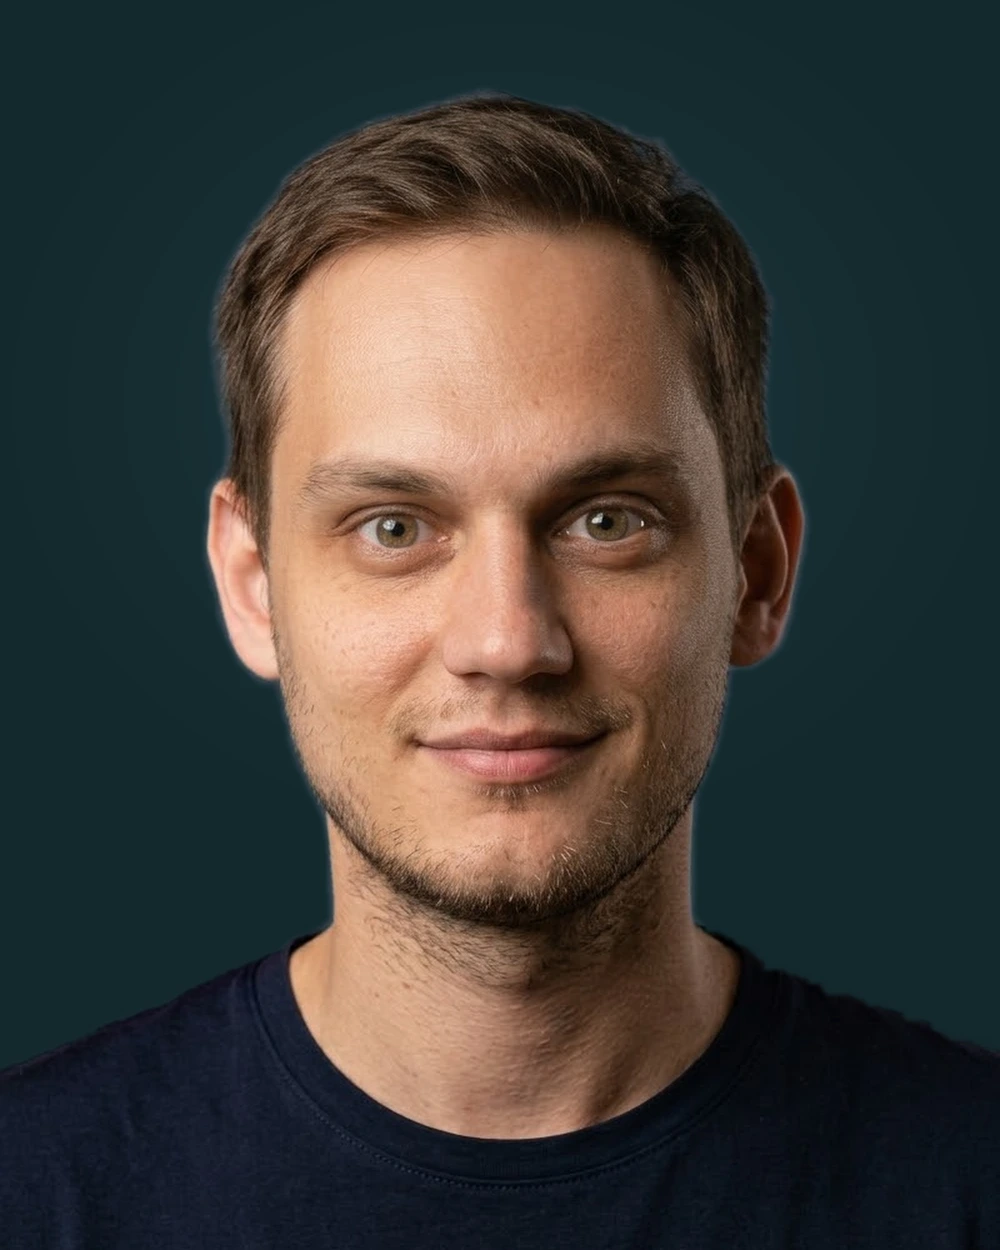
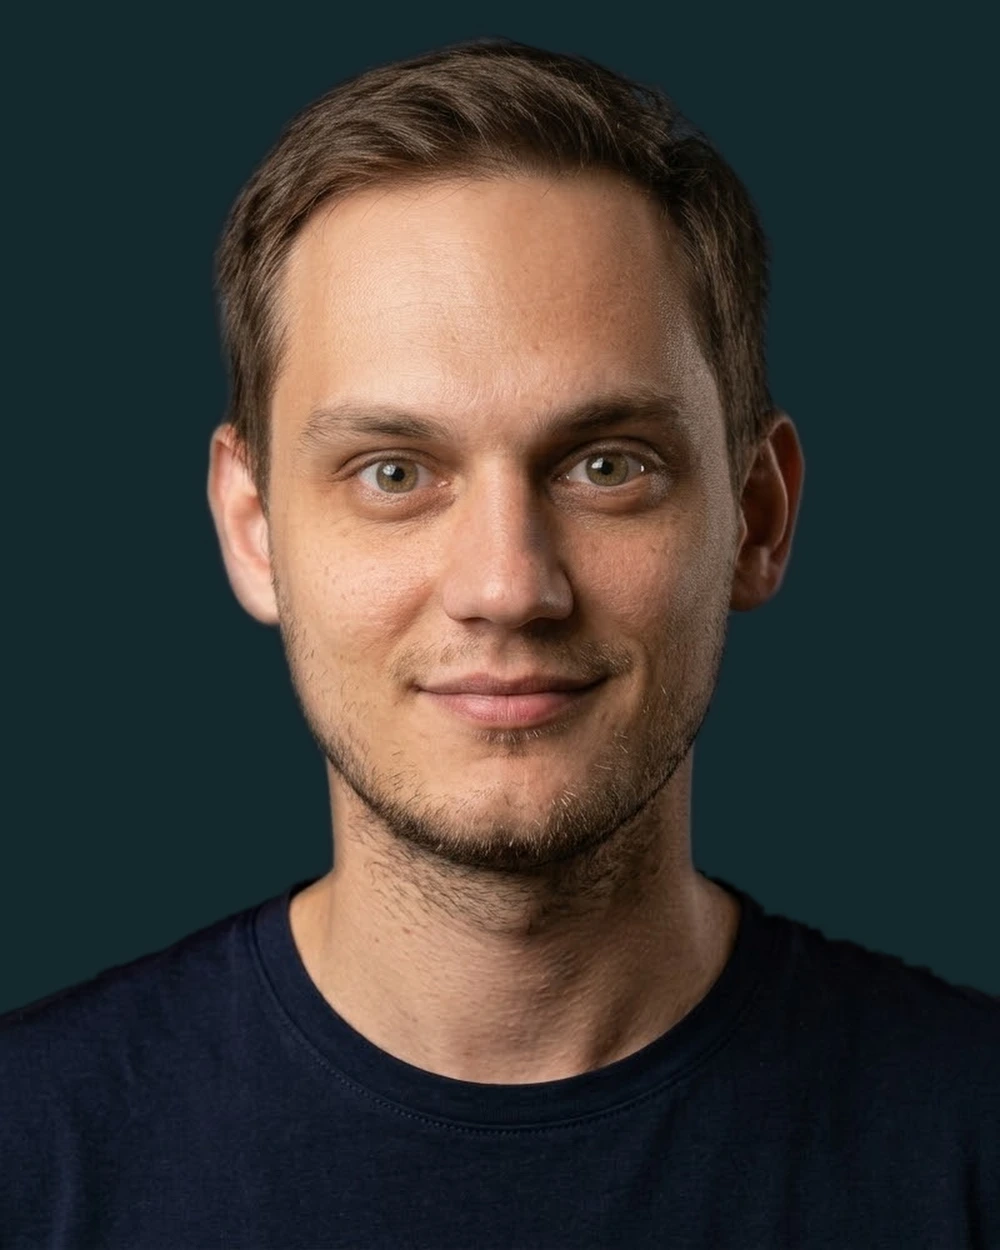
Add dark header segment, fix sticky positioning, swap hero photo
- Replace public/hero-45.webp with new portrait (same 1000x1250 crop)
- Header.tsx: dark segment (background: T.home.color.dark) on the
  right, width = --portrait's formula + container padExtra (matches
  Hero.tsx's tablet/desktop cap values), positioned absolute against
  the sticky header so its right edge tracks .portrait's right edge
  at every width (verified pixel-perfect at 768/900/1280/1440, not
  just the two cap points). Locale switch + WhatsApp link move into
  it, recolored to the textOnDark*/accentHoverDark tokens already
  used elsewhere on dark blocks. Logo and nav-links stay on the light
  background. Segment only exists >=768; header is unchanged below
  that. nav-links hidden 768-1279 (not enough room next to the
  segment for three items at a legible size, worst for RU labels;
  reappears at 1280+ where there's ~600px to spare) — decided with
  the user after measuring actual text widths.
- app/globals.css: root cause of the sticky bug was overflow-x:hidden
  on <body> (not just <html>) forcing overflow-y:auto there too,
  which makes body its own scroll container; position:sticky then
  computes its range against body instead of the viewport, and since
  body has no independent scroll range the header just scrolled away.
  Fix: overflow-x:hidden stays only on <html>, which already governs
  the viewport scrollbox on its own. Verified no horizontal scroll
  regression on /, /hms, /ecommerce, /cv, /lab/background.
[…]

Changed region(s): [[0.0, 0.0312, 1.0, 0.936]]

diff --git a/src/components/home/Header.tsx b/src/components/home/Header.tsx
@@ -20,6 +20,18 @@ interface HeaderProps {
   navLinks: [NavLink, NavLink, NavLink];
 }
 
+// Dark segment's width = the .portrait column's width (--portrait, see
+// homeGridVarsCSS in src/theme/homeContainer.ts) plus the container's own
+// right padding (padExtra) — same tablet/desktop cap values Hero.tsx reads
+// from T.home.container, so the segment's right edge tracks .portrait's
+// right edge (both anchored to the true viewport edge via the matching
+// "+ pad0" term below) without duplicating the --portrait formula itself.
+const { tablet, desktop } = T.home.container;
+const portraitWidthTablet = Math.round(tablet.cap * 0.3);
+const portraitWidthDesktop = Math.round(desktop.cap * 0.3);
+const segmentWidthTablet = portraitWidthTablet + tablet.padExtra;
+const segmentWidthDesktop = portraitWidthDesktop + desktop.padExtra;
+
 export const Header = ({ lang, brand, waLink, whatsappLabel, navLinks }: HeaderProps) => {
   const pathname = usePathname();
   const router = useRouter();
@@ -46,6 +58,23 @@ export const Header = ({ lang, brand, waLink, whatsappLabel, navLinks }: HeaderP
           background: ${T.home.color.bgLight};
           border-bottom: 1px solid ${T.home.color.ruleLight};
           font-family: ${T.home.font.sans};
+        }
+
+        /* Reserve room for the dark segment so logo/nav-links stop where it
+           begins instead of running underneath it. Same width formula as
+           .dark-segment below — deliberately duplicated (not read off a
+           shared var) since Header and Hero are DOM siblings and Hero's
+           --portrait custom property isn't in scope here. */
+        @media (min-width: 768px) {
+          .home-header {
+            padding-right: calc(max(0px, (100vw - ${tablet.cap}px) / 2) + ${segmentWidthTablet}px);
+          }
+        }
+
+        @media (min-width: 1280px) {
+          .home-header {
+            padding-right: calc(max(0px, (100vw - ${desktop.cap}px) / 2) + ${segmentWidthDesktop}px);
+          }
         }
 
         .logo-block {
@@ -99,6 +128,11 @@ export const Header = ({ lang, brand, waLink, whatsappLabel, navLinks }: HeaderP
           }
         }
 
+        /* Hidden 768–1279: the dark segment's width there (--portrait +
+           tablet padExtra) doesn't leave enough room next to the logo for
+           three nav items at a legible size, especially the longer RU
+           labels. Reappears at 1280+, where the desktop segment leaves
+           ~600px — comfortably more than nav needs. */
         .nav-links {
           display: none;
           align-items: center;
@@ -107,7 +141,7 @@ export const Header = ({ lang, brand, waLink, whatsappLabel, navLinks }: HeaderP
           font-weight: 400;
         }
 
-        @media (min-width: 768px) {
+        @media (min-width: 1280px) {
           .nav-links {
             display: flex;
           }
@@ -122,6 +156,9 @@ export const Header = ({ lang, brand, waLink, whatsappLabel, navLinks }: HeaderP
           color: ${T.home.color.accent};
         }
 
+        /* Mobile only (<768): locale switch + WhatsApp link stay on paper,
+           right-aligned in normal flow — unchanged from before the dark
+           segment existed. */
         .right {
           display: flex;
           align-items: stretch;
@@ -131,7 +168,7 @@ export const Header = ({ lang, brand, waLink, whatsappLabel, navLinks }: HeaderP
 
         @media (min-width: 768px) {
           .right {
-            flex: none;
+            display: none;
           }
         }
 
@@ -142,19 +179,6 @@ export const Header = ({ lang, brand, waLink, whatsappLabel, navLinks }: HeaderP
           font-size: 11px;
           letter-spacing: 0.08em;
           text-transform: uppercase;
-        }
-
-        @media (min-width: 768px) {
-          .locale-switch {
-            letter-spacing: 0.1em;
-            margin-left: 24px;
-          }
-        }
-
-        @media (min-width: 1280px) {
-          .locale-switch {
-            margin-left: 0;
-          }
         }
 
         .locale-btn {
@@ -168,18 +192,6 @@ export const Header = ({ lang, brand, waLink, whatsappLabel, navLinks }: HeaderP
           padding: 0 6px;
           color: ${T.home.color.textSecondary};
           opacity: ${isPending ? 0.6 : 1};
-        }
-
-        @media (min-width: 768px) {
-          .locale-btn {
-            padding: 0 8px;
-          }
-        }
-
-        @media (min-width: 1280px) {
-          .locale-btn {
-            padding: 0 16px;
-          }
         }
 
         .locale-btn.active {
@@ -199,22 +211,103 @@ export const Header = ({ lang, brand, waLink, whatsappLabel, navLinks }: HeaderP
           padding: 0 12px 0 18px;
         }
 
+        .wa-link:hover {
+          color: ${T.home.color.accentHoverLight};
+        }
+
+        /* Tablet/desktop only (≥768): dark segment, same width as .portrait
+           (--portrait + container padExtra), right edge flush with the
+           header's own true right edge (position:absolute against the
+           sticky header's padding box ignores the header's own
+           padding-right, same "+ pad0" full-bleed trick .portrait uses) —
+           so it lines up with .portrait's right edge at every width, not
+           just the 768/1280 cap points. Persists with the sticky header,
+           doesn't disappear on scroll. */
+        .dark-segment {
+          display: none;
+        }
+
         @media (min-width: 768px) {
-          .wa-link {
-            font-size: 13px;
-            padding: 0 24px 0 16px;
+          .dark-segment {
+            display: flex;
+            align-items: center;
+            justify-content: flex-end;
+            position: absolute;
+            top: 0;
+            right: 0;
+            bottom: 0;
+            width: calc(max(0px, (100vw - ${tablet.cap}px) / 2) + ${segmentWidthTablet}px);
+            background: ${T.home.color.dark};
           }
         }
 
         @media (min-width: 1280px) {
-          .wa-link {
-            border-left: 1px solid ${T.home.color.ruleLight};
+          .dark-segment {
+            width: calc(max(0px, (100vw - ${desktop.cap}px) / 2) + ${segmentWidthDesktop}px);
+          }
+        }
+
+        .locale-switch-dark {
+          display: flex;
+          align-items: center;
+          font-family: ${T.home.font.mono};
+          font-size: 11px;
+          letter-spacing: 0.1em;
+          text-transform: uppercase;
+          margin-left: 24px;
+        }
+
+        @media (min-width: 1280px) {
+          .locale-switch-dark {
+            margin-left: 0;
+          }
+        }
+
+        .locale-btn-dark {
+          border: none;
+          background: transparent;
+          cursor: pointer;
+          font-family: inherit;
+          font-size: inherit;
+          letter-spacing: inherit;
+          text-transform: inherit;
+          padding: 0 8px;
+          color: ${T.home.color.textOnDarkMuted};
+          opacity: ${isPending ? 0.6 : 1};
+        }
+
+        @media (min-width: 1280px) {
+          .locale-btn-dark {
+            padding: 0 16px;
+          }
+        }
+
+        .locale-btn-dark.active {
+          color: ${T.home.color.accentHoverDark};
+          font-weight: 500;
+        }
+
+        .wa-link-dark {
+          display: flex;
+          align-items: center;
+          font-family: ${T.home.font.sans};
+          font-weight: 600;
+          color: ${T.home.color.accentHoverDark};
+          text-decoration: none;
+          white-space: nowrap;
+          font-size: 13px;
+          padding: 0 24px 0 16px;
+        }
+
+        @media (min-width: 1280px) {
+          .wa-link-dark {
+            border-left: 1px solid ${T.home.color.darkBorder};
             padding: 0 28px;
           }
         }
 
-        .wa-link:hover {
-          color: ${T.home.color.accentHoverLight};
+        .wa-link-dark:hover {
+          color: ${T.home.color.textOnDarkPrimary};
         }
       `}</style>
 
@@ -231,6 +324,7 @@ export const Header = ({ lang, brand, waLink, whatsappLabel, navLinks }: HeaderP
         ))}
       </nav>
 
+      {/* Mobile (<768) */}
       <div className="right">
         <div className="locale-switch">
           {LOCALES.map((l) => (
@@ -245,6 +339,25 @@ export const Header = ({ lang, brand, waLink, whatsappLabel, navLinks }: HeaderP
           ))}
         </div>
         <a className="wa-link" href={waLink} target="_blank" rel="noopener">
+          {whatsappLabel}
+        </a>
+      </div>
+
+      {/* Tablet/desktop (≥768) */}
+      <div className="dark-segment">
+        <div className="locale-switch-dark">
+          {LOCALES.map((l) => (
+            <button
+              key={l}
+              type="button"
+              className={`locale-btn-dark${lang === l ? ' active' : ''}`}
+              onClick={() => switchLang(l)}
+            >
+              {l}
+            </button>
+          ))}
+        </div>
+        <a className="wa-link-dark" href={waLink} target="_blank" rel="noopener">
           {whatsappLabel}
         </a>
       </div>

diff --git a/app/globals.css b/app/globals.css
@@ -8,12 +8,24 @@
   box-sizing: border-box; 
 }
 
-/* Фиксация вьюпорта от боковых сдвигов */
+/* Фиксация вьюпорта от боковых сдвигов.
+   overflow-x на body (не только html) заставляет браузер вычислять его
+   overflow-y как auto (CSS fixup для не-visible overflow-x), и body
+   становится отдельным scroll-контейнером, вложенным в html. position:
+   sticky у потомков (например, .home-header) считает свой sticky-range
+   от ЭТОГО контейнера, а не от вьюпорта — и поскольку у body нет
+   независимого скролла, sticky-элементы просто скроллятся вместе со
+   страницей вместо того чтобы прилипать. overflow-x достаточно только
+   на html — сам вьюпорт-скроллер это и так использует, а body без
+   overflow не создаёт лишний scroll-контейнер. */
 html, body {
-  overflow-x: hidden !important;
   width: 100% !important;
   max-width: 100vw !important;
   position: relative;
+}
+
+html {
+  overflow-x: hidden !important;
 }
 
 html { 
